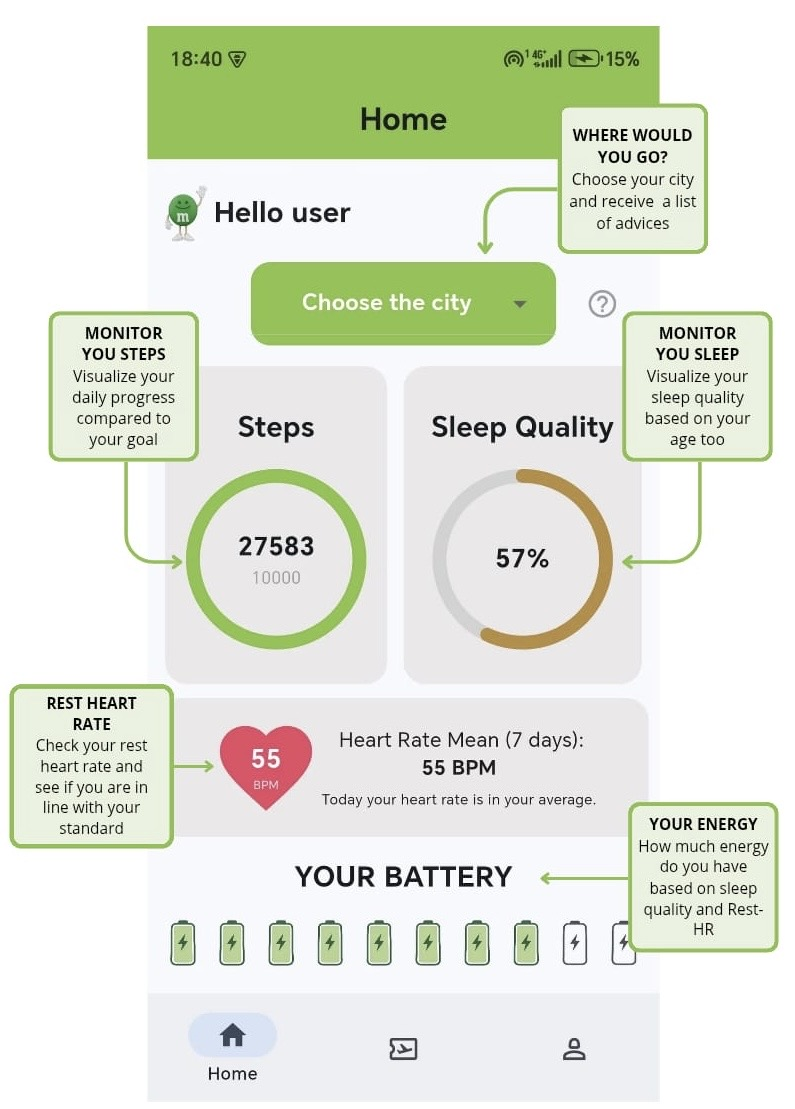
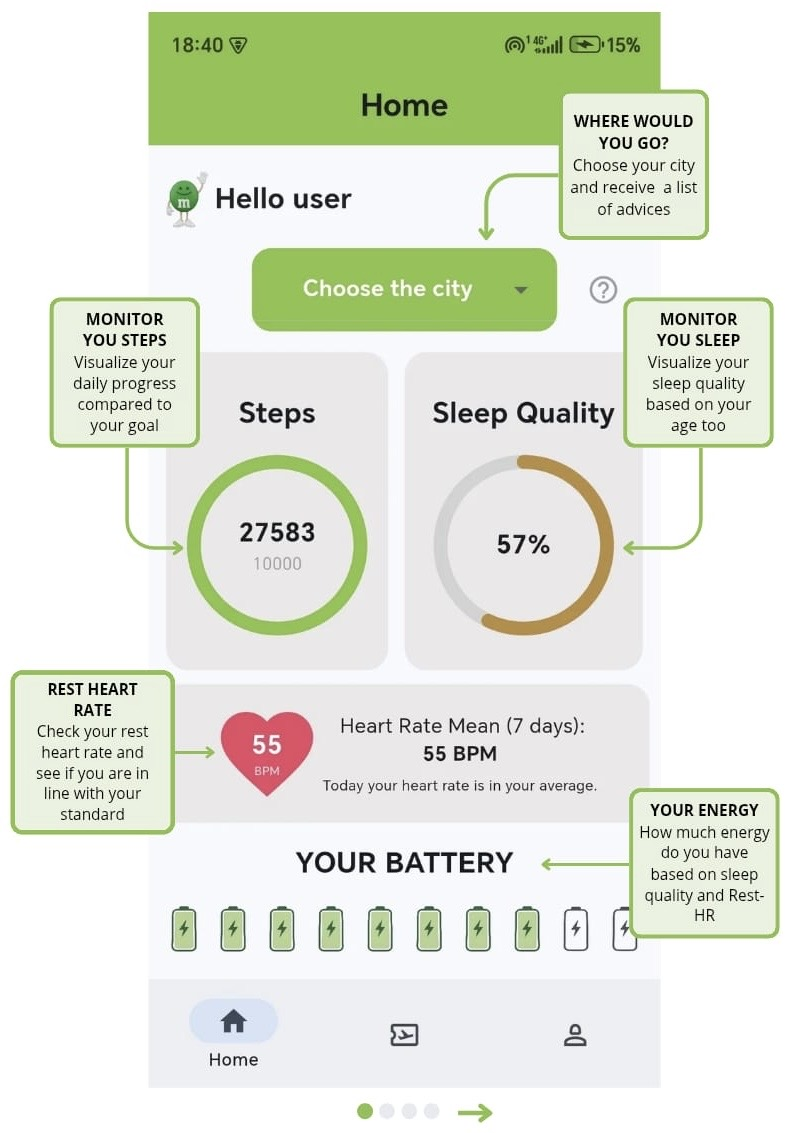
Screen presentazione

diff --git a/lib/providers/data_provider.dart b/lib/providers/data_provider.dart
@@ -1,5 +1,4 @@
 // This provider is responsible for managing the data related to steps, sleep, heart rate, and energy levels.
-// 
 
 import 'dart:convert';
 import 'dart:io';
@@ -332,9 +331,9 @@ Future<List<Sleep>?> requestSleepData() async {
         throw Exception('Status ${response2.statusCode}: ${response2.body}');
       }
 
-    final start3 = DateTime.now().subtract(Duration(days: 15));
+    final start3 = DateTime.now().subtract(Duration(days: 22));
     final startDate3 = DateFormat('yyyy-MM-dd').format(start3);
-    final end3 = DateTime.now().subtract(Duration(days: 9));
+    final end3 = DateTime.now().subtract(Duration(days: 16));
     final endDate3 = DateFormat('yyyy-MM-dd').format(end3);
 
 
@@ -512,9 +511,9 @@ Future<double> calculatePenalty(double HRtoday, double mean, double std) async {
     int remSleep = sleep.levels.summary.rem.minutes;
     int percentageRemSleep = (remSleep * 100) ~/ sleep.minutesAsleep;
     if (subjectCategory == category[0]) {
-      if (percentageRemSleep <=5) {
+      if (percentageRemSleep <= 20) {
         score += 2;
-      } if (percentageRemSleep >=11) {
+      } if (percentageRemSleep >= 41) {
         score += 1;
     }
   } if (subjectCategory == category[1]) {
@@ -529,7 +528,7 @@ Future<double> calculatePenalty(double HRtoday, double mean, double std) async {
       } if (percentageRemSleep >=41) {
         score += 2;
     }
-  } if (subjectCategory == category[3]) {
+  } if (subjectCategory == category[4]) {
       if (percentageRemSleep >=41) {
         score += 2;
       } if (percentageRemSleep >=21 && percentageRemSleep <=30) {

diff --git a/lib/screens/presentation.dart b/lib/screens/presentation.dart
@@ -17,22 +17,18 @@ class _PresentationPageState extends State<PresentationPage> {
     {
       "image": "lib/images/screen1.jpg",
       "title": "Welcome to the Home Page",
-      "desc": "Here you can see your tiredness level and plan your trips accordingly. Just click on the green button to start your adventure!"
     },
     {
       "image": "lib/images/screen2.jpg",
       "title": "Choose the destinations",
-      "desc": ""
     },
     {
       "image": "lib/images/screen3.jpg",
       "title": "Travel Page",
-      "desc": "Here the algorithm will suggest you the best route to reach your destination, taking into account your tiredness level and the energy cost of the trip."
     },
     {
       "image": "lib/images/screen4.jpg",
       "title": "Profile Page",
-      "desc": "Here you can view and change your profile information and steps aim."
     },
   ];
 
@@ -73,15 +69,6 @@ class _PresentationPageState extends State<PresentationPage> {
                           ),
                           textAlign: TextAlign.center,
                         ),
-                        /*const SizedBox(height: 10),
-                        Text(
-                          _slides[index]["desc"]!,
-                          style: const TextStyle(
-                            fontSize: 16,
-                            color: Colors.grey,
-                          ),
-                          textAlign: TextAlign.center,
-                        ),*/
                       ],
                     ),
                   );

diff --git a/lib/main.dart b/lib/main.dart
@@ -3,6 +3,18 @@
 //The MultiProvider allows to use multiple providers in the app, in this case we have a ResultSwipe provider and 
 //a DataProvider provider. 
 
+// Bibliography:
+
+// - Quer G, Gouda P, Galarnyk M, Topol EJ, Steinhubl SR (2020) Inter- and intraindividual variability in daily resting heart rate and its
+// associations with age, sex, sleep, BMI, and time of year: Retrospective, longitudinal cohort study of 92,457 adults. 
+// PLoS ONE 15(2): e0227709. https://doi.org/10.1371/journal.pone.0227709
+
+// - Ohayon, M., Wickwire, E. M., Hirshkowitz, M., Albert, S. M., Avidan, A., Daly, F. J., Dauvilliers, Y., Ferri, R., Fung, C., Gozal, D., Hazen, 
+// N., Krystal, A., Lichstein, K., Mallampalli, M., Plazzi, G., Rawding, R., Scheer, F. A., Somers, V., & Vitiello, M. V. (2017). 
+// National Sleep Foundation's sleep quality recommendations: first report. Sleep Health, 3, 6-19. 
+// https://doi.org/10.1016/j.sleh.2016.11.006
+
+
 import 'package:flutter/material.dart';
 import 'package:mms_app/models/swipe.dart';
 import 'package:mms_app/providers/data_provider.dart';

diff --git a/lib/screens/travelpage.dart b/lib/screens/travelpage.dart
@@ -146,7 +146,6 @@ class TravelPage extends StatelessWidget {
                             fontWeight: FontWeight.bold,
                           ),
                         ),
-                                              // All'interno del ListView.builder di TravelPage
                       trailing: ElevatedButton(
                         style: ElevatedButton.styleFrom(
                           side: const BorderSide(color: Colors.green, width: 2),

diff --git a/lib/models/sleep.dart b/lib/models/sleep.dart
@@ -6,7 +6,7 @@
 //The SleepStageData object contains information about a specific stage of sleep, such as the start time, end time, and duration of the stage.
 import 'package:intl/intl.dart';
 
-// --- CLASSE PRINCIPALE (RADICE) ---
+// --- CLASSE PRINCIPALE ---
 class Sleep {
   final String dateOfSleep;          
   final DateTime startTime;          

diff --git a/lib/utils/impact.dart b/lib/utils/impact.dart
@@ -11,7 +11,6 @@ import 'dart:convert';
 import 'dart:io';
 import 'package:intl/intl.dart';
 import 'package:jwt_decoder/jwt_decoder.dart';
-
 import 'package:mms_app/models/steps.dart';
 import 'package:shared_preferences/shared_preferences.dart';
 import 'package:http/http.dart' as http;
